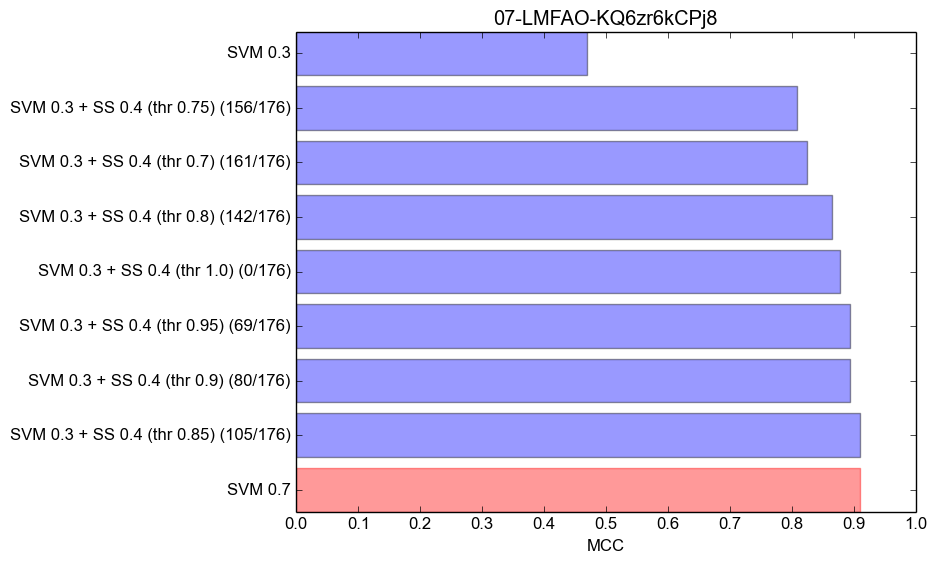
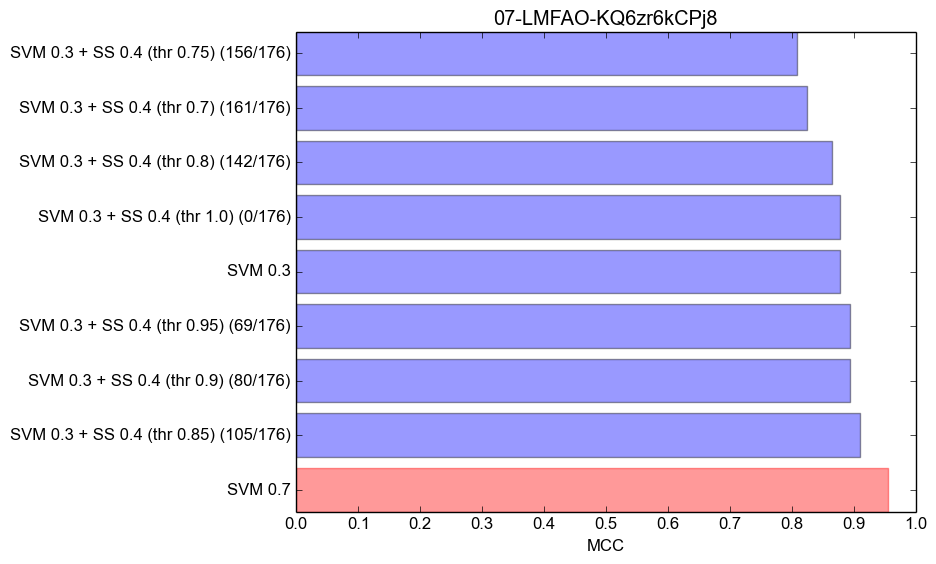
Fix stratified results

diff --git a/exp3 stratified/results/04-KatyPerry-CevxZvSJLk8.tex b/exp3 stratified/results/04-KatyPerry-CevxZvSJLk8.tex
@@ -5,15 +5,15 @@
 \begin{tabular}{r|c|c|c|c|c|c|c|c|c|c}
 \hline\hline
 Classifier & Acc (\%) & SC (\%) & BH (\%) & F-medida & MCC & TP & TN & FP & FN \\ \hline
+SVM 0.7 & 91.51 & 84.91 & 1.89 & 0.909 & 0.838 & 45 & 52 & 1 & 8 \\ 
 SVM 0.3 + SS 0.4 (thr 0.75) (86/140) & 90.57 & 83.02 & 1.89 & 0.898 & 0.821 & 44 & 52 & 1 & 9 \\ 
-SVM 0.7 & 90.57 & 83.67 & 3.51 & 0.891 & 0.814 & 41 & 55 & 2 & 8 \\ 
 SVM 0.3 + SS 0.4 (thr 0.8) (60/140) & 89.62 & 81.13 & 1.89 & 0.887 & 0.804 & 43 & 52 & 1 & 10 \\ 
 SVM 0.3 + SS 0.4 (thr 0.7) (107/140) & 88.68 & 77.36 & 0.00 & 0.872 & 0.794 & 41 & 53 & 0 & 12 \\ 
 SVM 0.3 + SS 0.4 (thr 0.95) (21/140) & 88.68 & 79.25 & 1.89 & 0.875 & 0.788 & 42 & 52 & 1 & 11 \\ 
+SVM 0.3 & 87.74 & 77.36 & 1.89 & 0.863 & 0.772 & 41 & 52 & 1 & 12 \\ 
 SVM 0.3 + SS 0.4 (thr 0.9) (34/140) & 87.74 & 77.36 & 1.89 & 0.863 & 0.772 & 41 & 52 & 1 & 12 \\ 
 SVM 0.3 + SS 0.4 (thr 1.0) (0/140) & 87.74 & 77.36 & 1.89 & 0.863 & 0.772 & 41 & 52 & 1 & 12 \\ 
 SVM 0.3 + SS 0.4 (thr 0.85) (43/140) & 87.74 & 79.25 & 3.77 & 0.866 & 0.766 & 42 & 51 & 2 & 11 \\ 
-SVM 0.3 & 87.74 & 79.59 & 5.26 & 0.857 & 0.758 & 39 & 54 & 3 & 10 \\ 
 \hline\hline
 \end{tabular}
 \end{table}

diff --git a/exp3 stratified/results/07-LMFAO-KQ6zr6kCPj8.tex b/exp3 stratified/results/07-LMFAO-KQ6zr6kCPj8.tex
@@ -5,15 +5,15 @@
 \begin{tabular}{r|c|c|c|c|c|c|c|c|c|c}
 \hline\hline
 Classifier & Acc (\%) & SC (\%) & BH (\%) & F-medida & MCC & TP & TN & FP & FN \\ \hline
-SVM 0.7 & 97.73 & 97.39 & 0.00 & 0.987 & 0.910 & 112 & 17 & 0 & 3 \\ 
+SVM 0.7 & 97.73 & 95.77 & 0.00 & 0.978 & 0.955 & 68 & 61 & 0 & 3 \\ 
 SVM 0.3 + SS 0.4 (thr 0.85) (105/176) & 95.45 & 94.37 & 3.28 & 0.957 & 0.909 & 67 & 59 & 2 & 4 \\ 
 SVM 0.3 + SS 0.4 (thr 0.9) (80/176) & 94.70 & 94.37 & 4.92 & 0.950 & 0.894 & 67 & 58 & 3 & 4 \\ 
 SVM 0.3 + SS 0.4 (thr 0.95) (69/176) & 94.70 & 94.37 & 4.92 & 0.950 & 0.894 & 67 & 58 & 3 & 4 \\ 
+SVM 0.3 & 93.94 & 94.37 & 6.56 & 0.944 & 0.878 & 67 & 57 & 4 & 4 \\ 
 SVM 0.3 + SS 0.4 (thr 1.0) (0/176) & 93.94 & 94.37 & 6.56 & 0.944 & 0.878 & 67 & 57 & 4 & 4 \\ 
 SVM 0.3 + SS 0.4 (thr 0.8) (142/176) & 93.18 & 91.55 & 4.92 & 0.935 & 0.864 & 65 & 58 & 3 & 6 \\ 
 SVM 0.3 + SS 0.4 (thr 0.7) (161/176) & 90.91 & 85.92 & 3.28 & 0.910 & 0.825 & 61 & 59 & 2 & 10 \\ 
 SVM 0.3 + SS 0.4 (thr 0.75) (156/176) & 90.15 & 85.92 & 4.92 & 0.904 & 0.808 & 61 & 58 & 3 & 10 \\ 
-SVM 0.3 & 72.73 & 68.70 & 0.00 & 0.814 & 0.469 & 79 & 17 & 0 & 36 \\ 
 \hline\hline
 \end{tabular}
 \end{table}

diff --git a/exp3 stratified/results/01-PSY-9bZkp7q19f0.tex b/exp3 stratified/results/01-PSY-9bZkp7q19f0.tex
@@ -5,15 +5,15 @@
 \begin{tabular}{r|c|c|c|c|c|c|c|c|c|c}
 \hline\hline
 Classifier & Acc (\%) & SC (\%) & BH (\%) & F-medida & MCC & TP & TN & FP & FN \\ \hline
-SVM 0.7 & 96.23 & 93.02 & 1.59 & 0.952 & 0.922 & 40 & 62 & 1 & 3 \\ 
+SVM 0.7 & 95.28 & 90.57 & 0.00 & 0.950 & 0.910 & 48 & 53 & 0 & 5 \\ 
 SVM 0.3 + SS 0.4 (thr 0.75) (63/140) & 94.34 & 88.68 & 0.00 & 0.940 & 0.893 & 47 & 53 & 0 & 6 \\ 
 SVM 0.3 + SS 0.4 (thr 0.8) (43/140) & 94.34 & 88.68 & 0.00 & 0.940 & 0.893 & 47 & 53 & 0 & 6 \\ 
 SVM 0.3 + SS 0.4 (thr 0.9) (18/140) & 94.34 & 88.68 & 0.00 & 0.940 & 0.893 & 47 & 53 & 0 & 6 \\ 
 SVM 0.3 + SS 0.4 (thr 0.95) (9/140) & 94.34 & 88.68 & 0.00 & 0.940 & 0.893 & 47 & 53 & 0 & 6 \\ 
 SVM 0.3 + SS 0.4 (thr 1.0) (1/140) & 94.34 & 88.68 & 0.00 & 0.940 & 0.893 & 47 & 53 & 0 & 6 \\ 
 SVM 0.3 + SS 0.4 (thr 0.85) (31/140) & 94.34 & 90.57 & 1.89 & 0.941 & 0.889 & 48 & 52 & 1 & 5 \\ 
+SVM 0.3 & 93.40 & 92.45 & 5.66 & 0.933 & 0.868 & 49 & 50 & 3 & 4 \\ 
 SVM 0.3 + SS 0.4 (thr 0.7) (80/140) & 92.45 & 86.79 & 1.89 & 0.920 & 0.855 & 46 & 52 & 1 & 7 \\ 
-SVM 0.3 & 88.68 & 90.70 & 12.70 & 0.867 & 0.771 & 39 & 55 & 8 & 4 \\ 
 \hline\hline
 \end{tabular}
 \end{table}

diff --git a/exp3 stratified/results/09-Shakira-pRpeEdMmmQ0.tex b/exp3 stratified/results/09-Shakira-pRpeEdMmmQ0.tex
@@ -5,6 +5,8 @@
 \begin{tabular}{r|c|c|c|c|c|c|c|c|c|c}
 \hline\hline
 Classifier & Acc (\%) & SC (\%) & BH (\%) & F-medida & MCC & TP & TN & FP & FN \\ \hline
+SVM 0.7 & 93.75 & 90.57 & 3.39 & 0.932 & 0.876 & 48 & 57 & 2 & 5 \\ 
+SVM 0.3 & 92.86 & 88.68 & 3.39 & 0.922 & 0.858 & 47 & 57 & 2 & 6 \\ 
 SVM 0.3 + SS 0.4 (thr 0.7) (0/148) & 92.86 & 88.68 & 3.39 & 0.922 & 0.858 & 47 & 57 & 2 & 6 \\ 
 SVM 0.3 + SS 0.4 (thr 0.75) (0/148) & 92.86 & 88.68 & 3.39 & 0.922 & 0.858 & 47 & 57 & 2 & 6 \\ 
 SVM 0.3 + SS 0.4 (thr 0.8) (0/148) & 92.86 & 88.68 & 3.39 & 0.922 & 0.858 & 47 & 57 & 2 & 6 \\ 
@@ -12,8 +14,6 @@ SVM 0.3 + SS 0.4 (thr 0.85) (0/148) & 92.86 & 88.68 & 3.39 & 0.922 & 0.858 & 47 
 SVM 0.3 + SS 0.4 (thr 0.9) (0/148) & 92.86 & 88.68 & 3.39 & 0.922 & 0.858 & 47 & 57 & 2 & 6 \\ 
 SVM 0.3 + SS 0.4 (thr 0.95) (0/148) & 92.86 & 88.68 & 3.39 & 0.922 & 0.858 & 47 & 57 & 2 & 6 \\ 
 SVM 0.3 + SS 0.4 (thr 1.0) (0/148) & 92.86 & 88.68 & 3.39 & 0.922 & 0.858 & 47 & 57 & 2 & 6 \\ 
-SVM 0.7 & 90.09 & 86.84 & 2.86 & 0.923 & 0.798 & 66 & 34 & 1 & 10 \\ 
-SVM 0.3 & 70.27 & 56.58 & 0.00 & 0.723 & 0.540 & 43 & 35 & 0 & 33 \\ 
 \hline\hline
 \end{tabular}
 \end{table}

diff --git a/exp3 stratified/results/08-rotulada-tratada-embaralhada.tex b/exp3 stratified/results/08-rotulada-tratada-embaralhada.tex
@@ -5,8 +5,8 @@
 \begin{tabular}{r|c|c|c|c|c|c|c|c|c|c}
 \hline\hline
 Classifier & Acc (\%) & SC (\%) & BH (\%) & F-medida & MCC & TP & TN & FP & FN \\ \hline
-SVM 0.7 & 97.04 & 95.59 & 1.49 & 0.970 & 0.941 & 65 & 66 & 1 & 3 \\ 
-SVM 0.3 & 94.81 & 92.65 & 2.99 & 0.947 & 0.897 & 63 & 65 & 2 & 5 \\ 
+SVM 0.7 & 96.30 & 94.59 & 1.64 & 0.966 & 0.926 & 70 & 60 & 1 & 4 \\ 
+SVM 0.3 & 94.81 & 93.24 & 3.28 & 0.952 & 0.897 & 69 & 59 & 2 & 5 \\ 
 SVM 0.3 + SS 0.4 (thr 0.75) (144/180) & 94.81 & 93.24 & 3.28 & 0.952 & 0.897 & 69 & 59 & 2 & 5 \\ 
 SVM 0.3 + SS 0.4 (thr 0.95) (61/180) & 94.81 & 93.24 & 3.28 & 0.952 & 0.897 & 69 & 59 & 2 & 5 \\ 
 SVM 0.3 + SS 0.4 (thr 1.0) (5/180) & 94.81 & 93.24 & 3.28 & 0.952 & 0.897 & 69 & 59 & 2 & 5 \\ 
